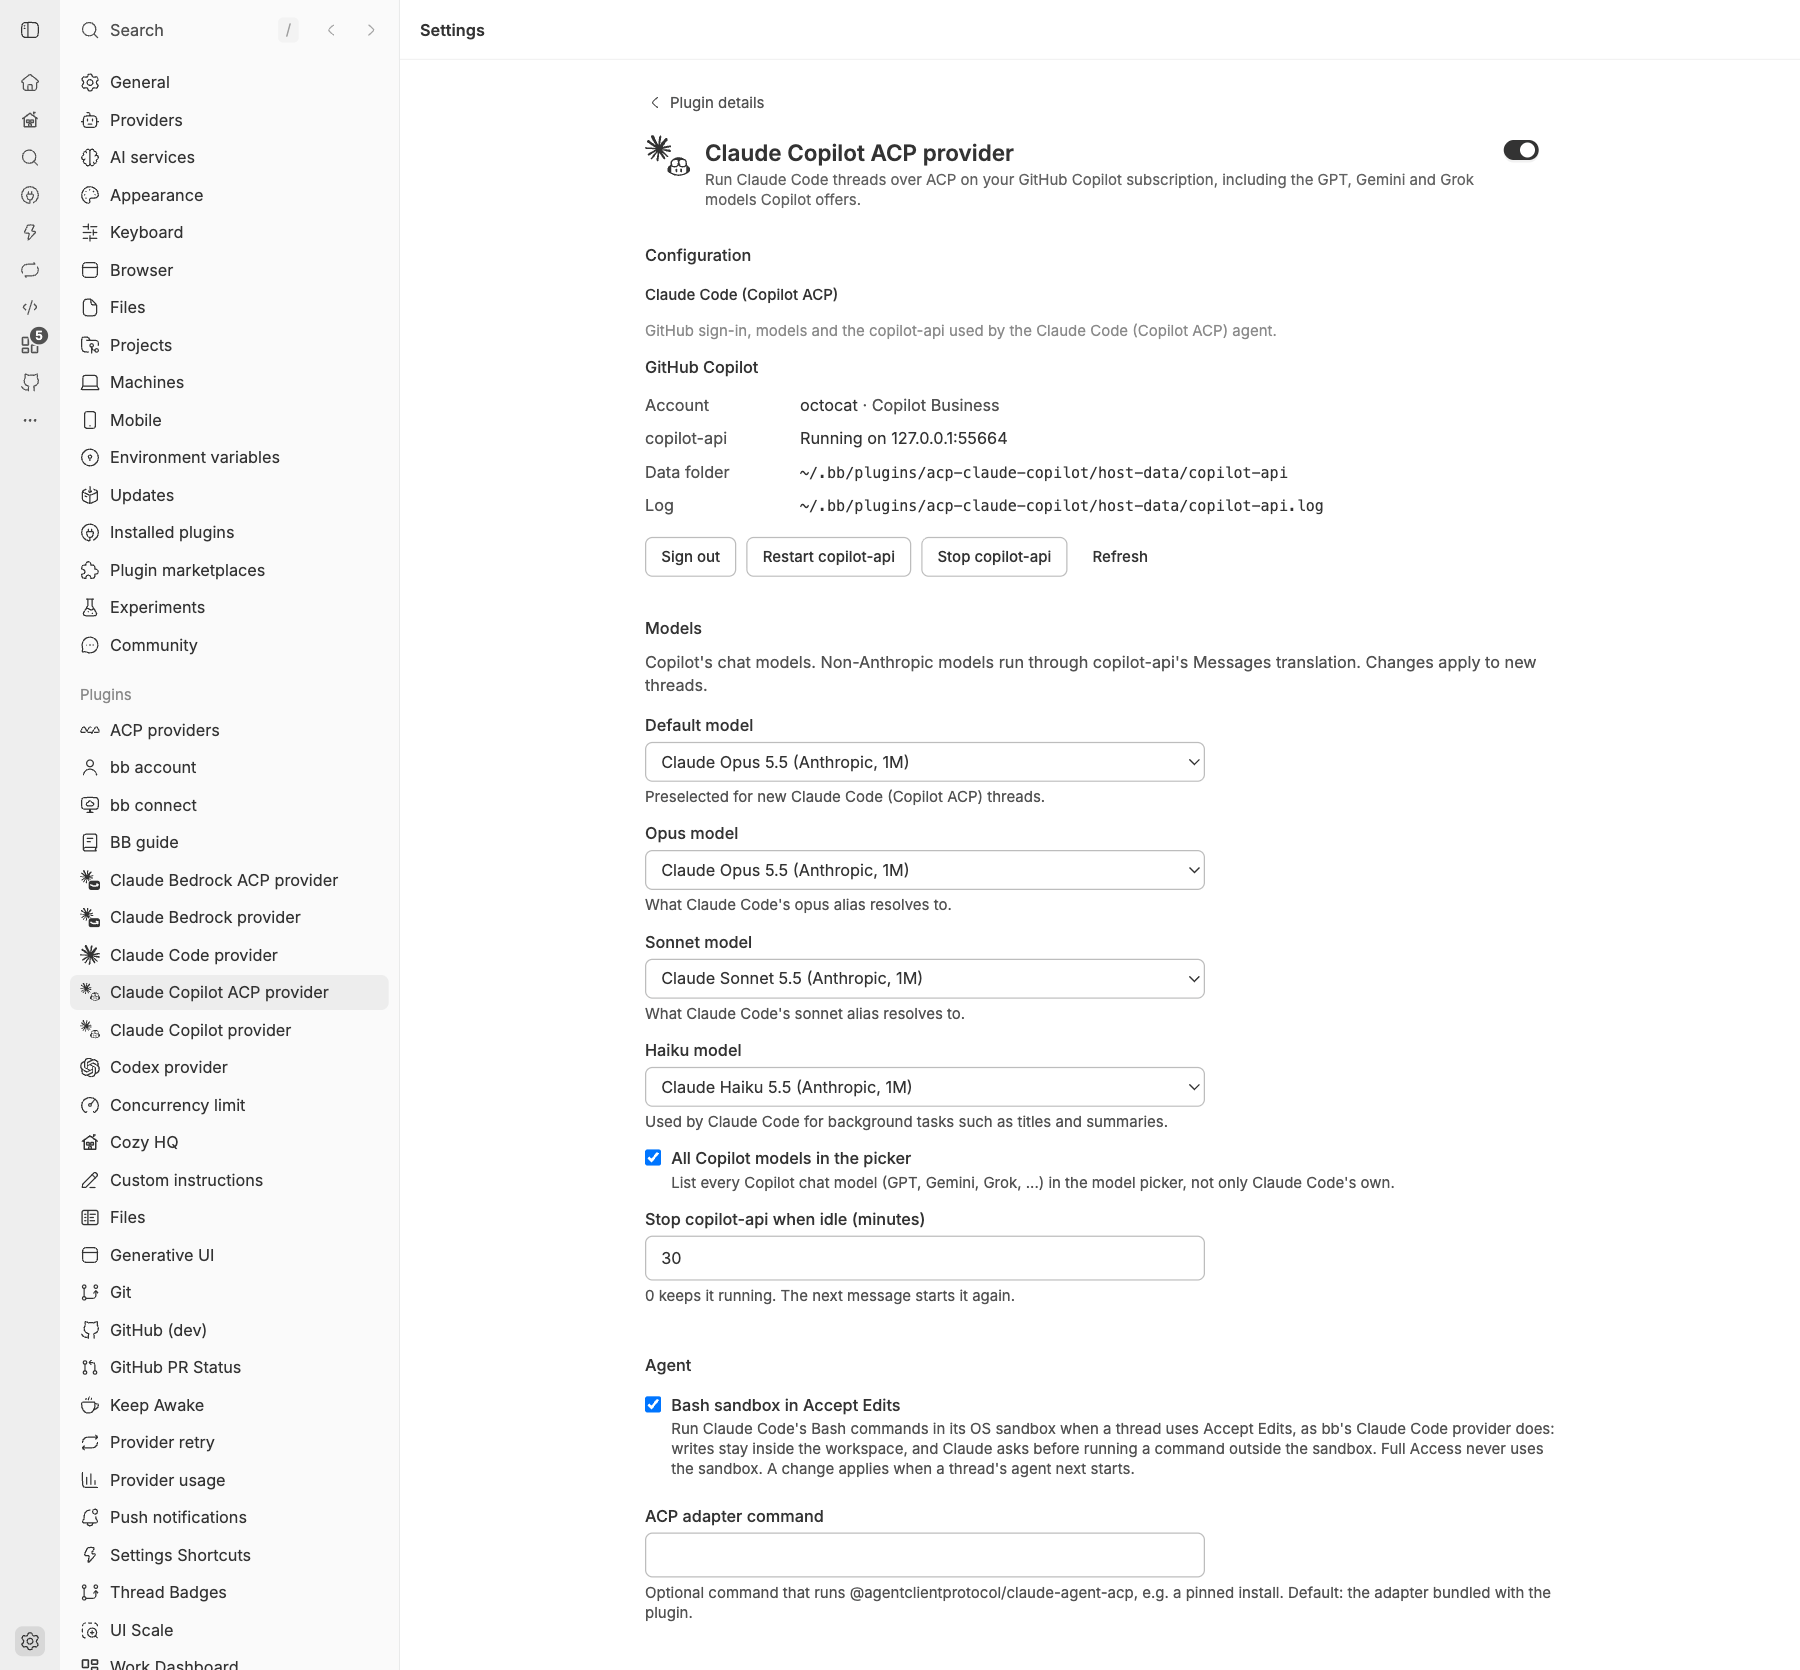
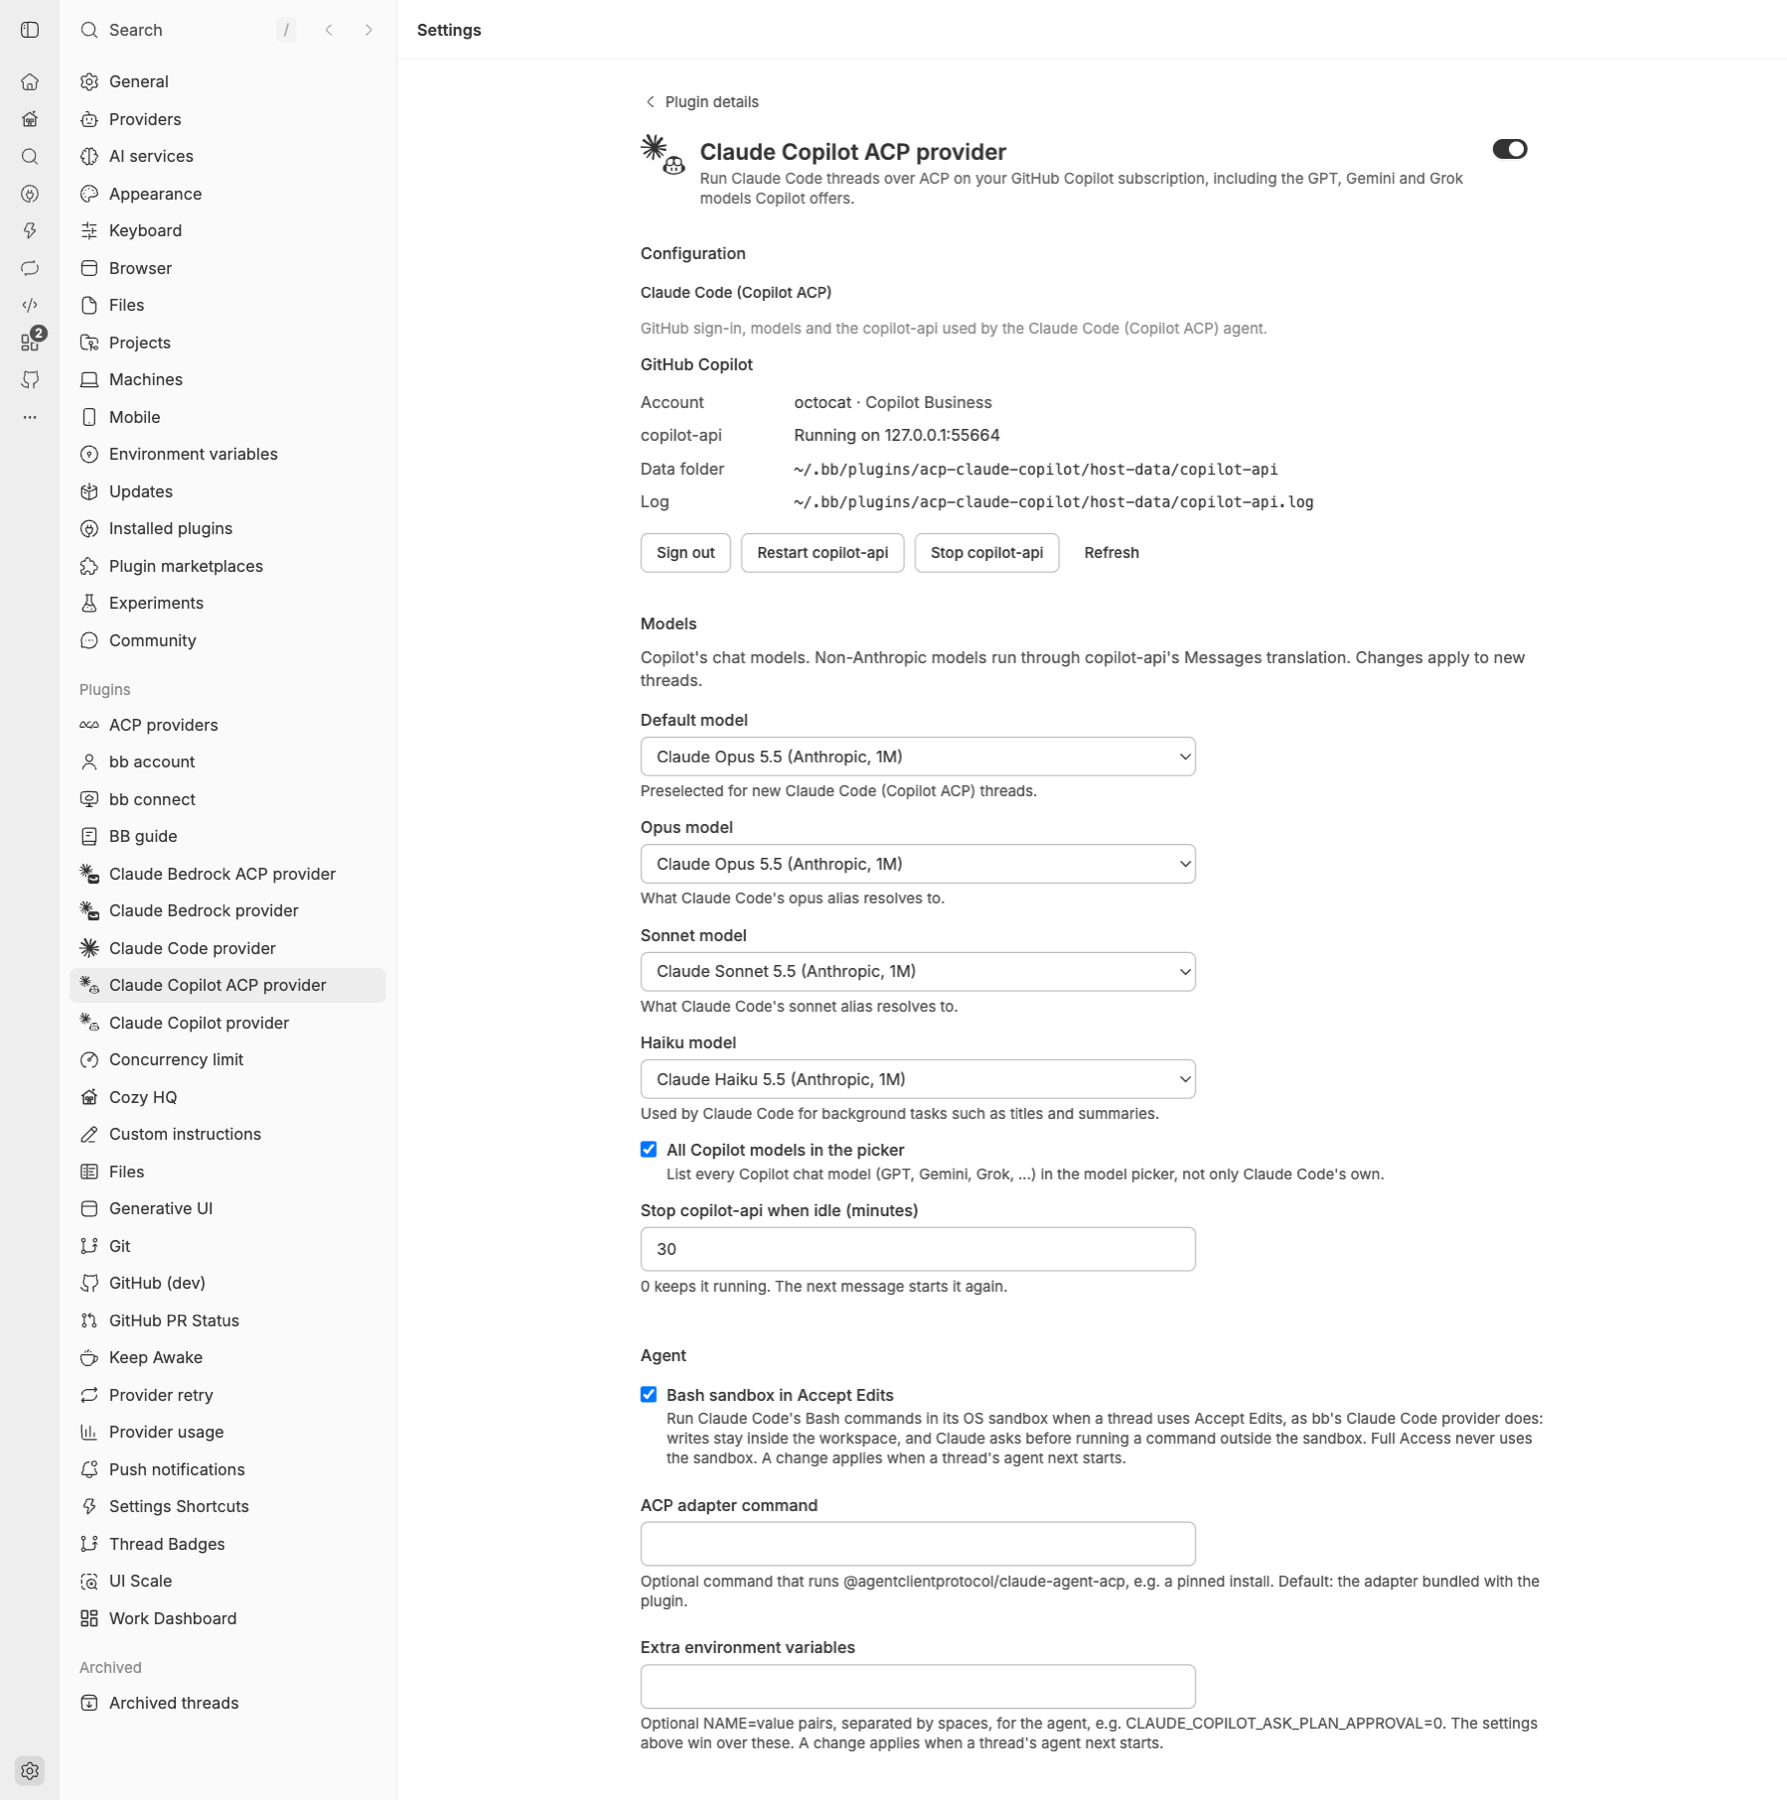
Settings screenshot with the Extra environment variables field

diff --git a/README.md b/README.md
@@ -46,9 +46,9 @@ Gemini models next to the Claude models:
 ![New thread with the Claude Code (Copilot ACP) provider selected and its model list open, showing Claude, Gemini and GPT models](docs/overview.png)
 
 Settings: GitHub sign-in and copilot-api state first, then the model mapping,
-then the agent's Bash sandbox and adapter.
+then the agent's Bash sandbox, adapter and extra environment variables.
 
-![Claude Copilot ACP provider settings with GitHub account, copilot-api status, model dropdowns, idle stop, Bash sandbox in Accept Edits and ACP adapter command](docs/settings.png)
+![Claude Copilot ACP provider settings with GitHub account, copilot-api status, model dropdowns, idle stop, Bash sandbox in Accept Edits, ACP adapter command and extra environment variables](docs/settings.png)
 
 The **Copilot usage** page: copilot-api's token usage dashboard inside bb.
 
